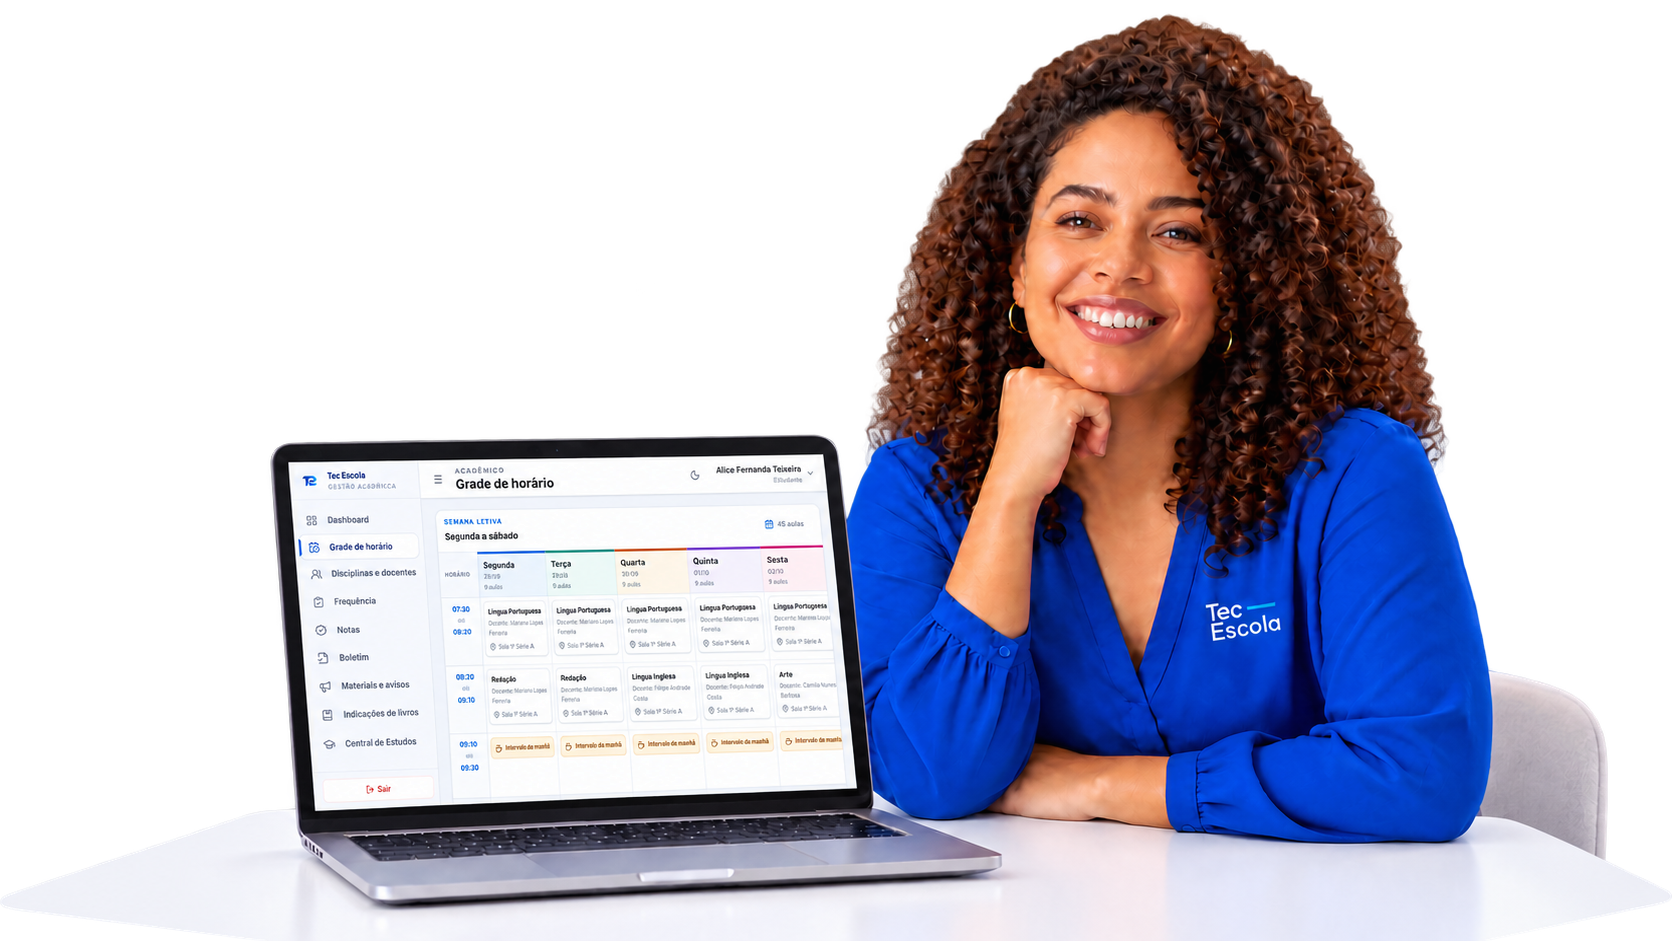
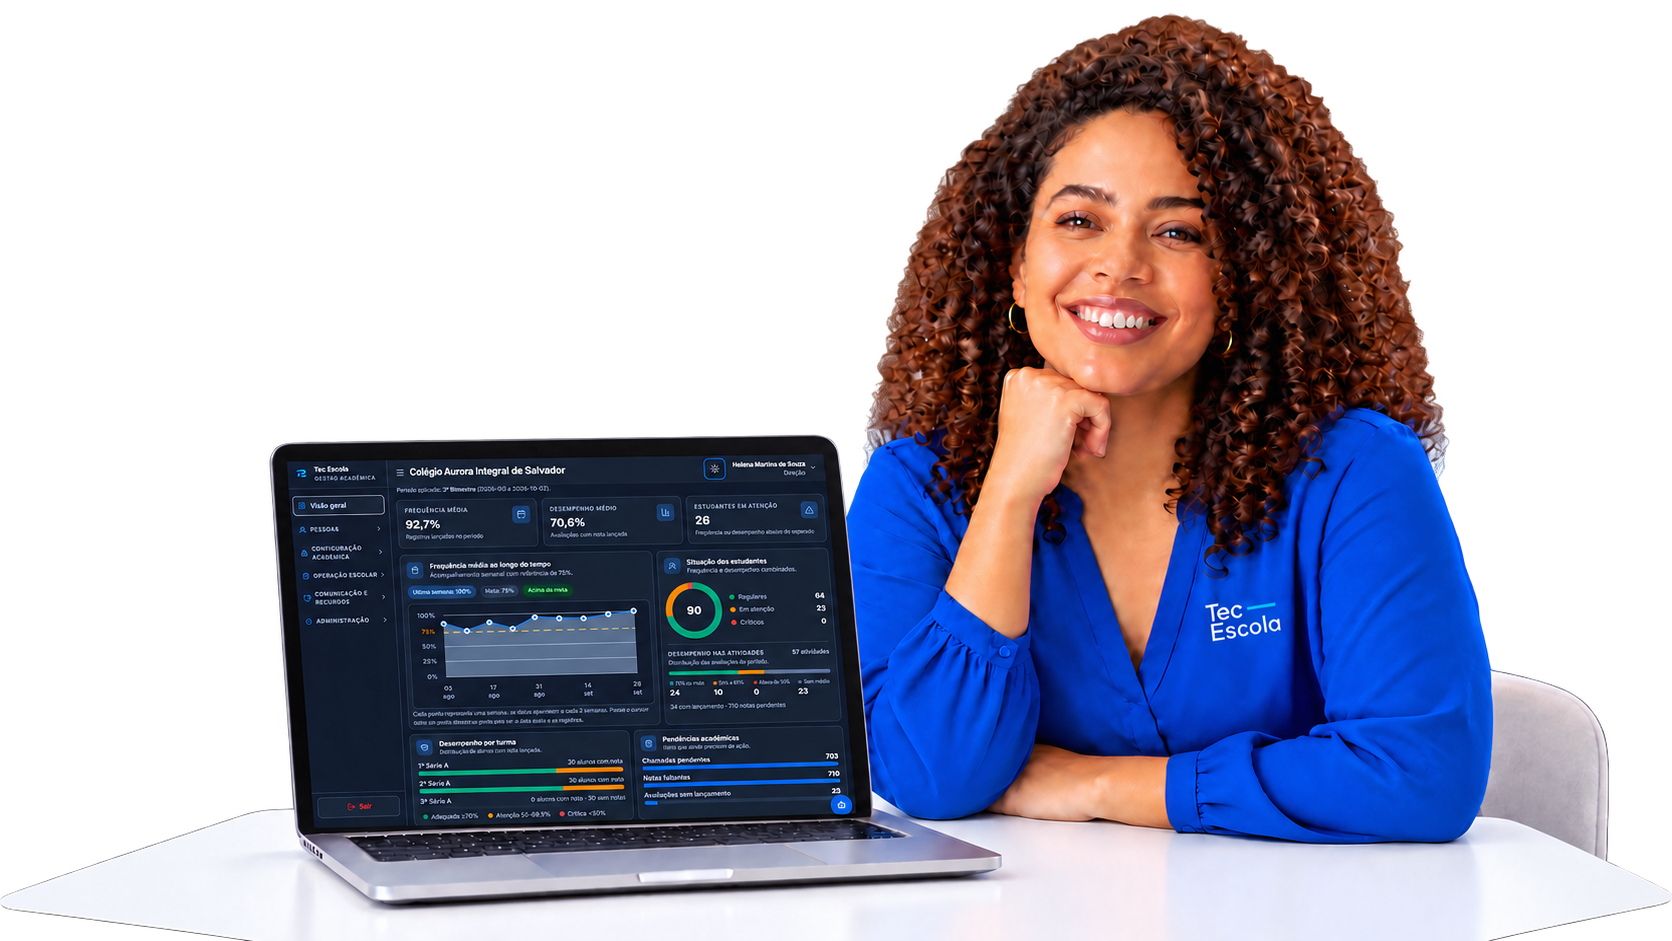
Replace woman laptop dashboard screen

diff --git a/index.html b/index.html
@@ -62,7 +62,7 @@
             <div class="hero-slides" aria-live="polite">
               <figure class="hero-slide is-active" data-hero-slide="0">
                 <img class="hero-person-base" src="./assets/educadora-uniforme-horizontal-cutout.png?v=hero-base-screen-15" alt="Educadora sorrindo com a grade de horários do Tec Escola no notebook e uniforme Tec Escola" />
-                <img class="hero-screen-overlay" src="./assets/educadora-grade-horario-horizontal-cutout.png?v=hero-screen-overlay-15" alt="" aria-hidden="true" />
+                <img class="hero-screen-overlay" src="./assets/educadora-grade-horario-horizontal-cutout.png?v=hero-screen-overlay-16" alt="" aria-hidden="true" />
               </figure>
               <figure class="hero-slide" data-hero-slide="1">
                 <img src="./assets/educadora-apontando-uniforme-horizontal-cutout.png?v=original-photo" alt="Educadora apontando para o painel acadêmico com uniforme Tec Escola" />
